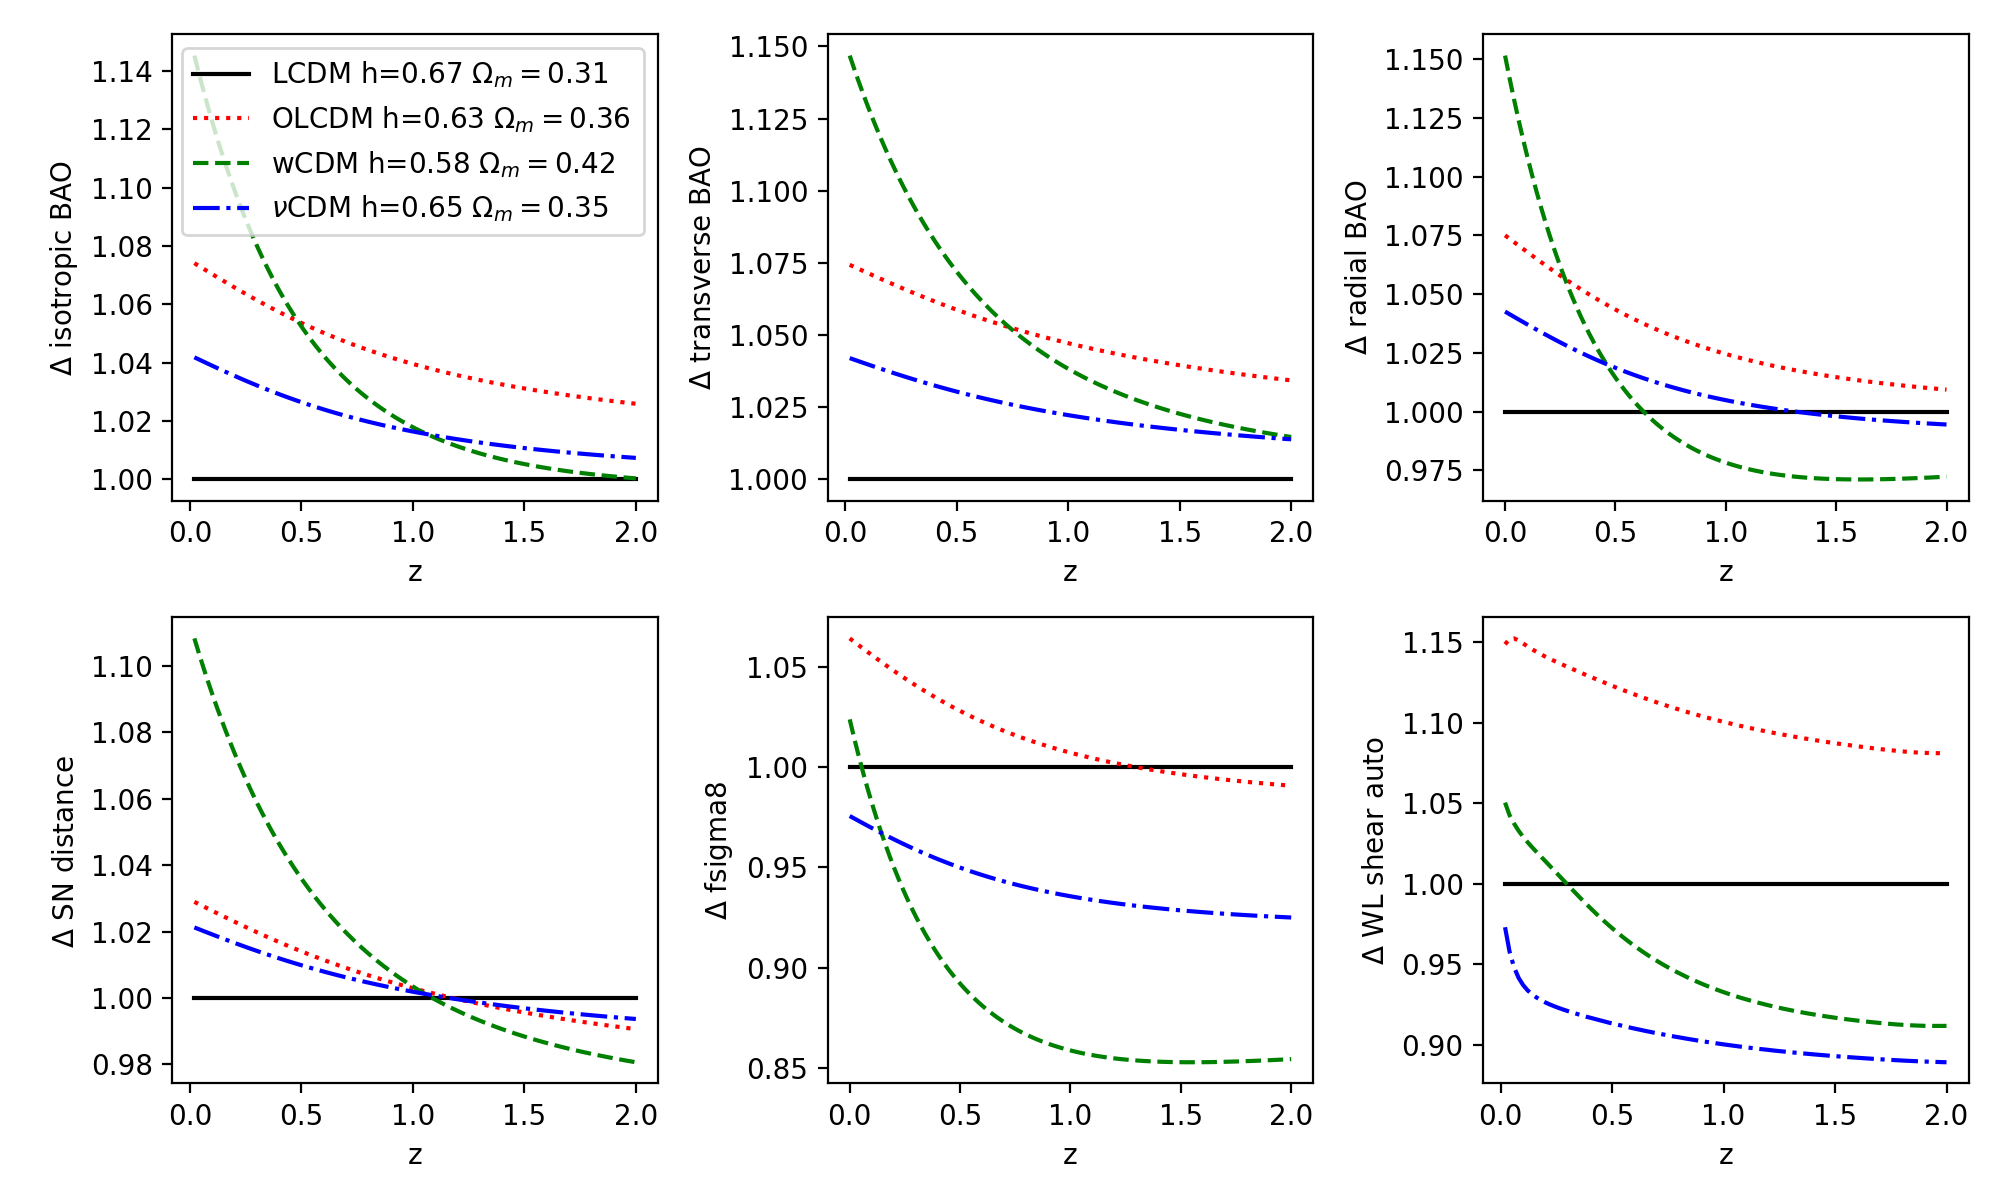
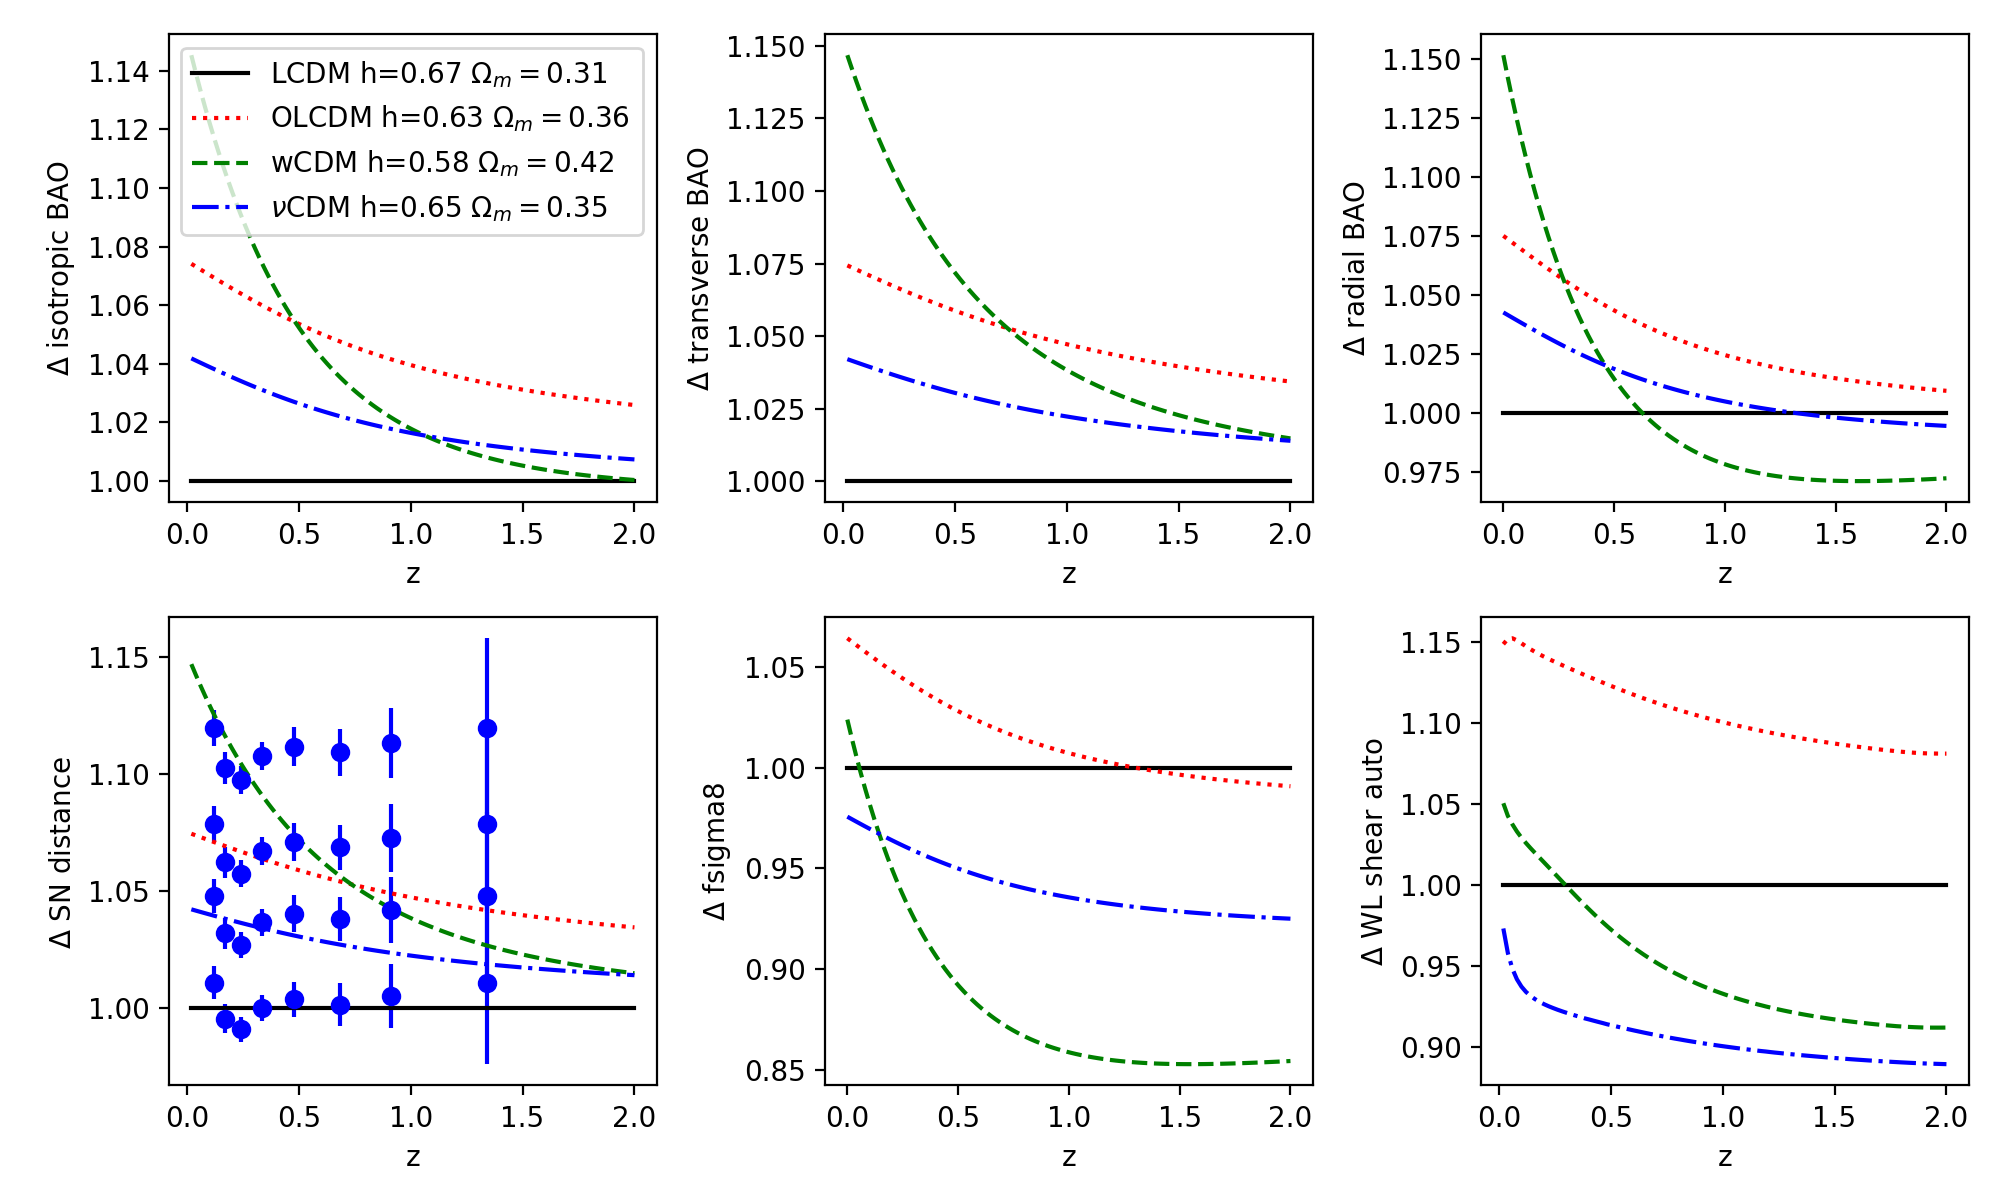
bao dh dv stuff

diff --git a/thincandy.py b/thincandy.py
@@ -41,6 +41,12 @@ class ThinCandy:
         }
         self.CBase = ccl.Cosmology(**self.CBaseP)
 
+        # aar=1/(1+np.array([0.38,0.51,0.70]))
+        # print (ccl.comoving_angular_distance(self.CBase,aar) / self.rd(self.CBase),
+        #        (1/aar-1)*
+        #        3e3/ccl.h_over_h0(self.CBase,aar)/self.CBase['h'] / self.rd(self.CBase))
+
+        # stop()
         self.sndata = np.loadtxt('data/pantheon.txt')
         self.snz = self.sndata[:,0]
         self.snval = self.sndata[:,2]
@@ -51,14 +57,17 @@ class ThinCandy:
     def bgplot(self):
         print (ccl.sigma8(self.CBase), self.rd(self.CBase))
         print ('getting open')
-        self.Copen = self.GetCosmo ({'Omega_k':-0.044})
-        print ('getting cw')
-        self.Cw = self.GetCosmo ({'w0':-1.58})
-        print ('getting cmnu')
-        self.Cmnu = self.GetCosmo ({'m_nu':0.26})
-        #self.Copen=self.CBase
-        #self.Cw=self.CBase
-        #self.Cmnu=self.CBase
+
+        if True:
+            self.Copen = self.GetCosmo ({'Omega_k':-0.044})
+            print ('getting cw')
+            self.Cw = self.GetCosmo ({'w0':-1.58})
+            print ('getting cmnu')
+            self.Cmnu = self.GetCosmo ({'m_nu':0.26})
+        else: #for fast debuggin
+            self.Copen=self.CBase
+            self.Cw=self.CBase
+            self.Cmnu=self.CBase
 
         #[(aiso,'isotropic BAO'), (aperp, 'transverse BAO'), (apar,
         #'radial BAO'), (sn, 'SN distance '), (fs8, 'fsigma8'),
@@ -67,17 +76,16 @@ class ThinCandy:
 
 
 
-        f,axl = plt.subplots(4,2, facecolor='w',
-                             gridspec_kw={'width_ratios':(3,1),'hspace':0.0,'wspace':0.05},figsize=(10,8))
+        f,axl = plt.subplots(3,2, facecolor='w',
+                             gridspec_kw={'width_ratios':(3,1),'hspace':0.0,'wspace':0.05},figsize=(10,6))
 
-        print (axl)
-        for i,((fun,name),(axl,axr)) in enumerate(zip ([(self.aiso,'BAO $\\bigcirc$'),
-                                                      (self.aperp, 'BAO $\perp$'),
+        print (axl)# [(self.aiso,'BAO $\\bigcirc$'),
+        for i,((fun,name),(axl,axr)) in enumerate(zip ([(self.aperp, 'BAO $\perp$'),
                                                       (self.apar, 'BAO $\parallel$'),
                                                       (self.sn, 'SN')],axl)):
             
             
-            for model,label,style in [(self.CBase,'LCDM','k--'), (self.Copen,'OLCDM','r:'), (self.Cw,'wCDM','g-.'),
+            for model,label,style in [(self.CBase,'LCDM','k:'), (self.Copen,'OLCDM','r--'), (self.Cw,'wCDM','g-.'),
                                 (self.Cmnu, '$\\nu$CDM','b-')]:
                 vals=fun(model)
                 axl.plot(self.zar[:self.Nl],vals[:self.Nl],style,label=label)
@@ -85,33 +93,33 @@ class ThinCandy:
 
             if "perp" in name:
                 for zb,iso,isoe,perp,perpe,par,pare in self.baodata:
+                    axr.errorbar(1150,1,yerr=0.000605211, fmt='ko')
                     if perp>0:
                         norm = ccl.comoving_angular_distance(self.CBase,1/(1+zb)) / self.rd(self.CBase)
                         #print (zb,norm,perp,perpe,perp/norm,perpe/norm)
-                        axl.errorbar(zb,perp/norm,yerr=perpe/norm,fmt='k.')
-                    axr.errorbar(1150,1,yerr=0.000605211, fmt='k.')
-            elif "par" in name:
-                for zb,iso,isoe,perp,perpe,par,pare in self.baodata:
-                    if par>0:
-                        norm = 299792.45/(ccl.h_over_h0(self.CBase,1/(1+zb))*self.CBase['H0'] * self.rd(self.CBase))
-                        #print (zb,norm,par,pare,par/norm,pare/norm)
-                        axl.errorbar(zb,par/norm,yerr=pare/norm,fmt='k.')
-            elif "circ" in name:
-                for zb,iso,isoe,perp,perpe,par,pare in self.baodata:
+                        axl.errorbar(zb,perp/norm,yerr=perpe/norm,fmt='ko')
                     if iso>0:
                         print (self.rd(self.CBase))
                         normperp = ccl.comoving_angular_distance(self.CBase,1/(1+zb)) / self.rd(self.CBase)
                         normpar = 299792.45/(ccl.h_over_h0(self.CBase,1/(1+zb))*self.CBase['H0'] * self.rd(self.CBase))
                         norm = (zb*normpar)**(1/3)*normperp**(2/3)
-                        axl.errorbar(zb,iso/norm,yerr=isoe/norm,fmt='k.')
+                        axl.errorbar(zb,iso/norm,yerr=isoe/norm,fmt='ko')
+
+            elif "par" in name:
+
+                for zb,iso,isoe,perp,perpe,par,pare in self.baodata:
+                    if par>0:
+                        norm = 299792.45/(ccl.h_over_h0(self.CBase,1/(1+zb))*self.CBase['H0'] * self.rd(self.CBase))
+                        #print (zb,norm,par,pare,par/norm,pare/norm)
+                        axl.errorbar(zb,par/norm,yerr=pare/norm,fmt='ko')
             
             elif "SN" in name:
-                axl.errorbar(self.snz,self.snval,yerr=self.snerr,fmt='k.')
-            if (i==0):
-                axl.legend(fontsize=8)
+                axl.errorbar(self.snz,self.snval,yerr=self.snerr,fmt='ko')
+
+            if (i==1):
+                axl.legend(fontsize=12,ncol=2, frameon=False, loc='lower center')
             
-            #plt.xlabel("z")
-            axl.set_ylabel(name)
+            axl.set_ylabel(name,fontsize=14)
             axl.spines['right'].set_visible(False)
             axr.spines['left'].set_visible(False)
             #axl.yaxis.tick_left()
@@ -125,7 +133,7 @@ class ThinCandy:
             axr.set_xlim(1100,1200)
             axr.set_xticks([1120,1200])
 
-            if (i<3):
+            if (i<2):
                 axl.set_ylim(0.85,1.15)
                 axl.set_yticks([0.90,1.0,1.1])
             else:
@@ -139,14 +147,11 @@ class ThinCandy:
                 axr.set_ylim(0.995,1.005)
                 axr.set_yticks([0.997,1.0,1.003])
             elif (i==2):
-                axr.set_ylim(0.995,1.005)
-                axr.set_yticks([0.997,1.0,1.003])
-            elif (i==3):
                 axr.set_ylim(0.8,1.2)
                 axr.set_yticks([0.9,1.0,1.1])
 
             
-            if (i<3):
+            if (i<2):
                 for l in axl.get_xticklabels():
                     l.set_visible(False)
                 for l in axr.get_xticklabels():
@@ -163,8 +168,8 @@ class ThinCandy:
             kwargs = dict(transform=axr.transAxes, color='k', clip_on=False)
             axr.plot((-d*3/5,+d*3/5), (-d,+d), **kwargs)
             axr.plot((-d*3/5,+d*3/5),(1-d,1+d), **kwargs)
-            if (i==3):
-                axl.set_xlabel("$z$")
+            if (i==2):
+                axl.set_xlabel("$z$",fontsize=14)
 
 
         #plt.tight_layout()
